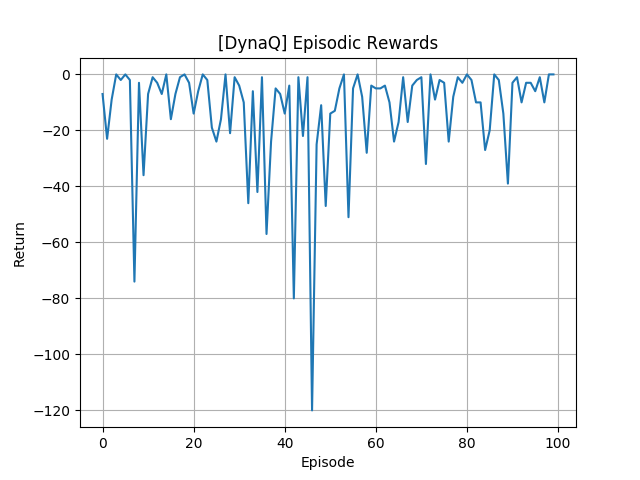
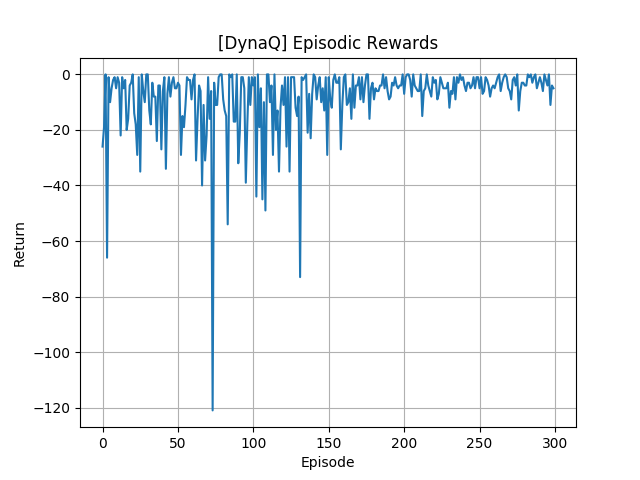
updte dyna-q readme

diff --git a/tf_rl/examples/DynaQ/main.py b/tf_rl/examples/DynaQ/main.py
@@ -81,7 +81,7 @@ def main(num_episode=100, num_train=5, hot_start=100):
 
 
 if __name__ == '__main__':
-    num_episode = 100
+    num_episode = 100*3
     num_train = 10
     hot_start = 100
     main(num_episode=num_episode,

diff --git a/tf_rl/examples/DynaQ/README.md b/tf_rl/examples/DynaQ/README.md
@@ -14,3 +14,34 @@ python tf_rl/examples/DynaQ/main.py
 ## Result
 
 <img src="./result.png">
+
+
+
+
+## General Framework of Model-based RL
+Source: [Hado van Hasselt et al., 2019](https://arxiv.org/pdf/1906.05243.pdf)
+
+<img src="./mbrl_framework.png">
+
+
+
+## Interesting Future Direction
+- Does Dyna Q work well even on the continuous state space?
+    - how about `Cartpole-v0` in OpenAI gym??
+    - or other complicated envs?? e.g., POMDP tasks(Atari)??
+- Is it really sample efficient??
+
+
+
+## a bit of Surveying
+- seems like well used in some Dialogue policy learning in NLP domain
+    - [Deep Dyna Q](https://arxiv.org/abs/1801.06176) and other extensions
+- Used in Planning as well
+- some researches pay attention to 
+    - how to avoid the overfitting at the early stage of training by incorporating the uncertainties
+        - https://ieeexplore.ieee.org/abstract/document/8383982/
+    - Usage of powerful Deep model-free agent in Dyna architecture
+        - https://arxiv.org/abs/1806.01825
+        - https://arxiv.org/pdf/1903.03234.pdf
+- some techniques to improve the sample efficiency
+    - ex) https://arxiv.org/pdf/1911.11285.pdf
